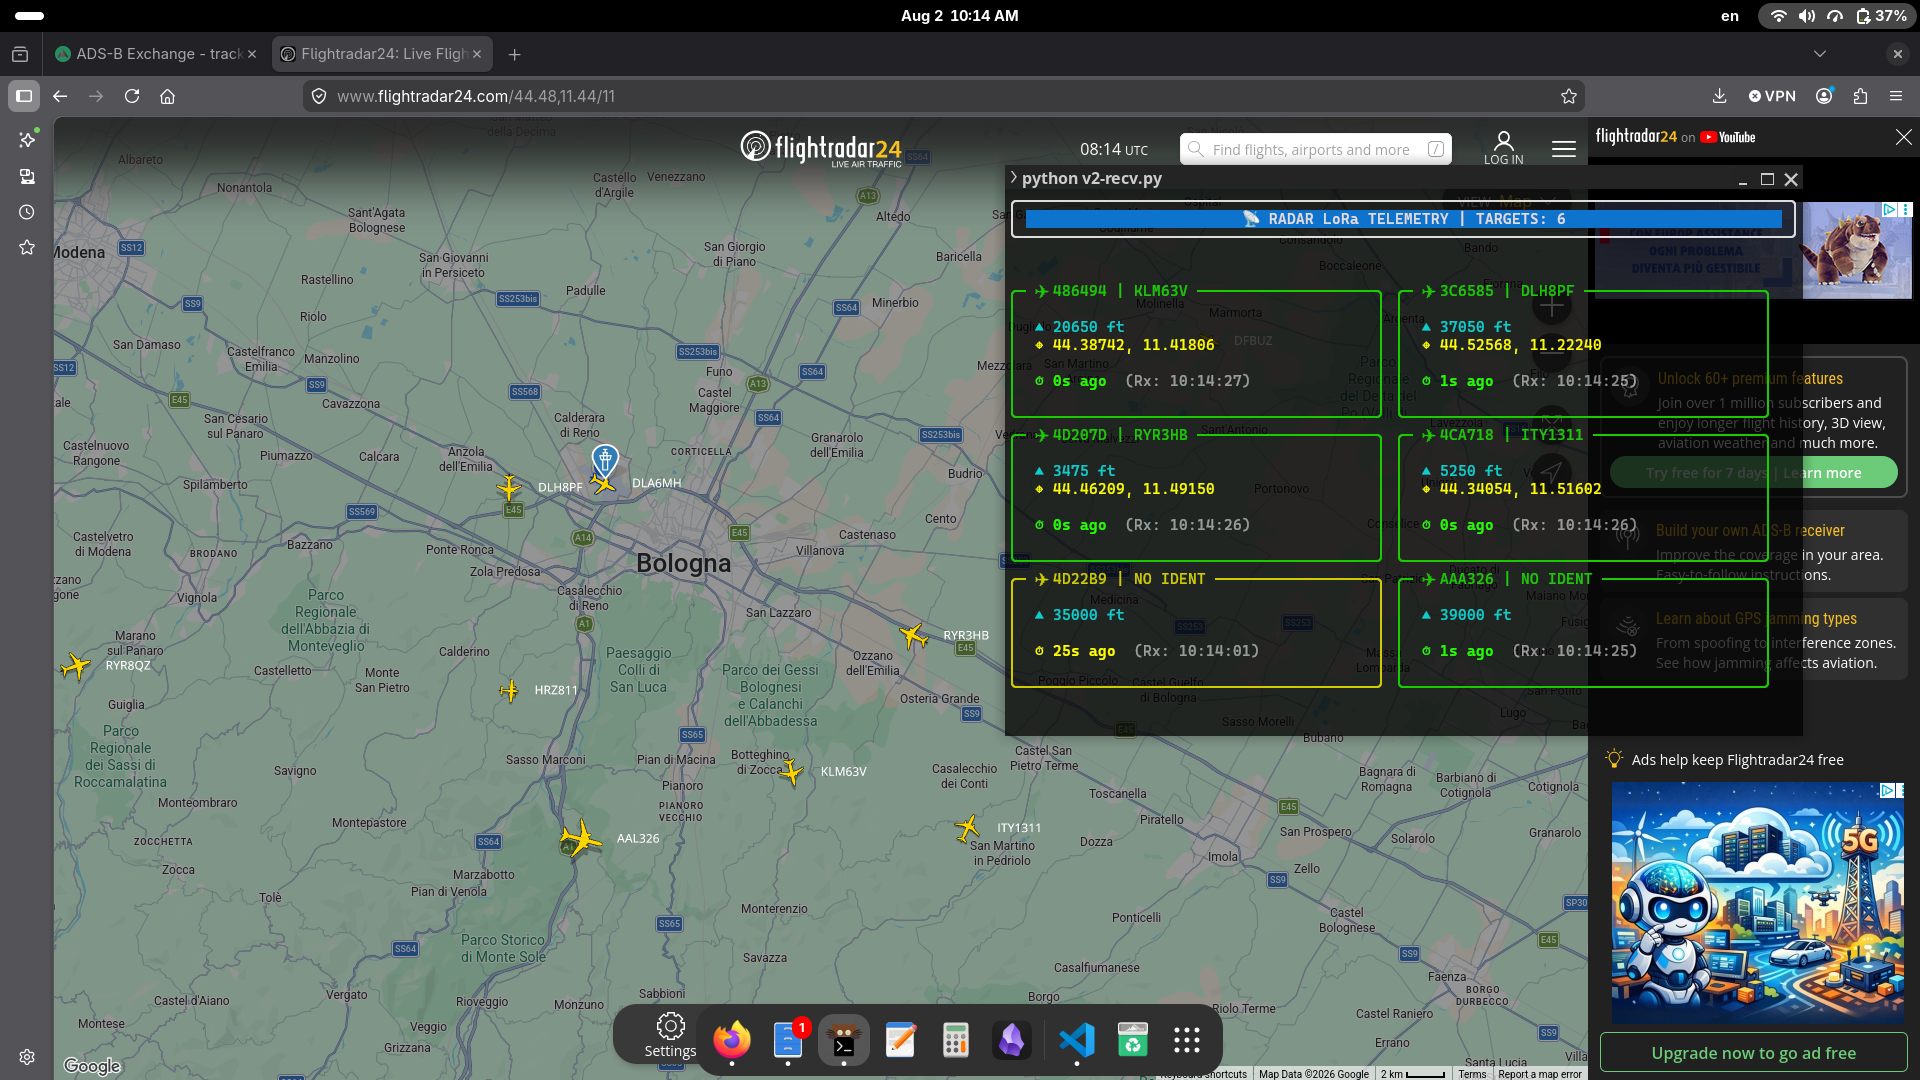
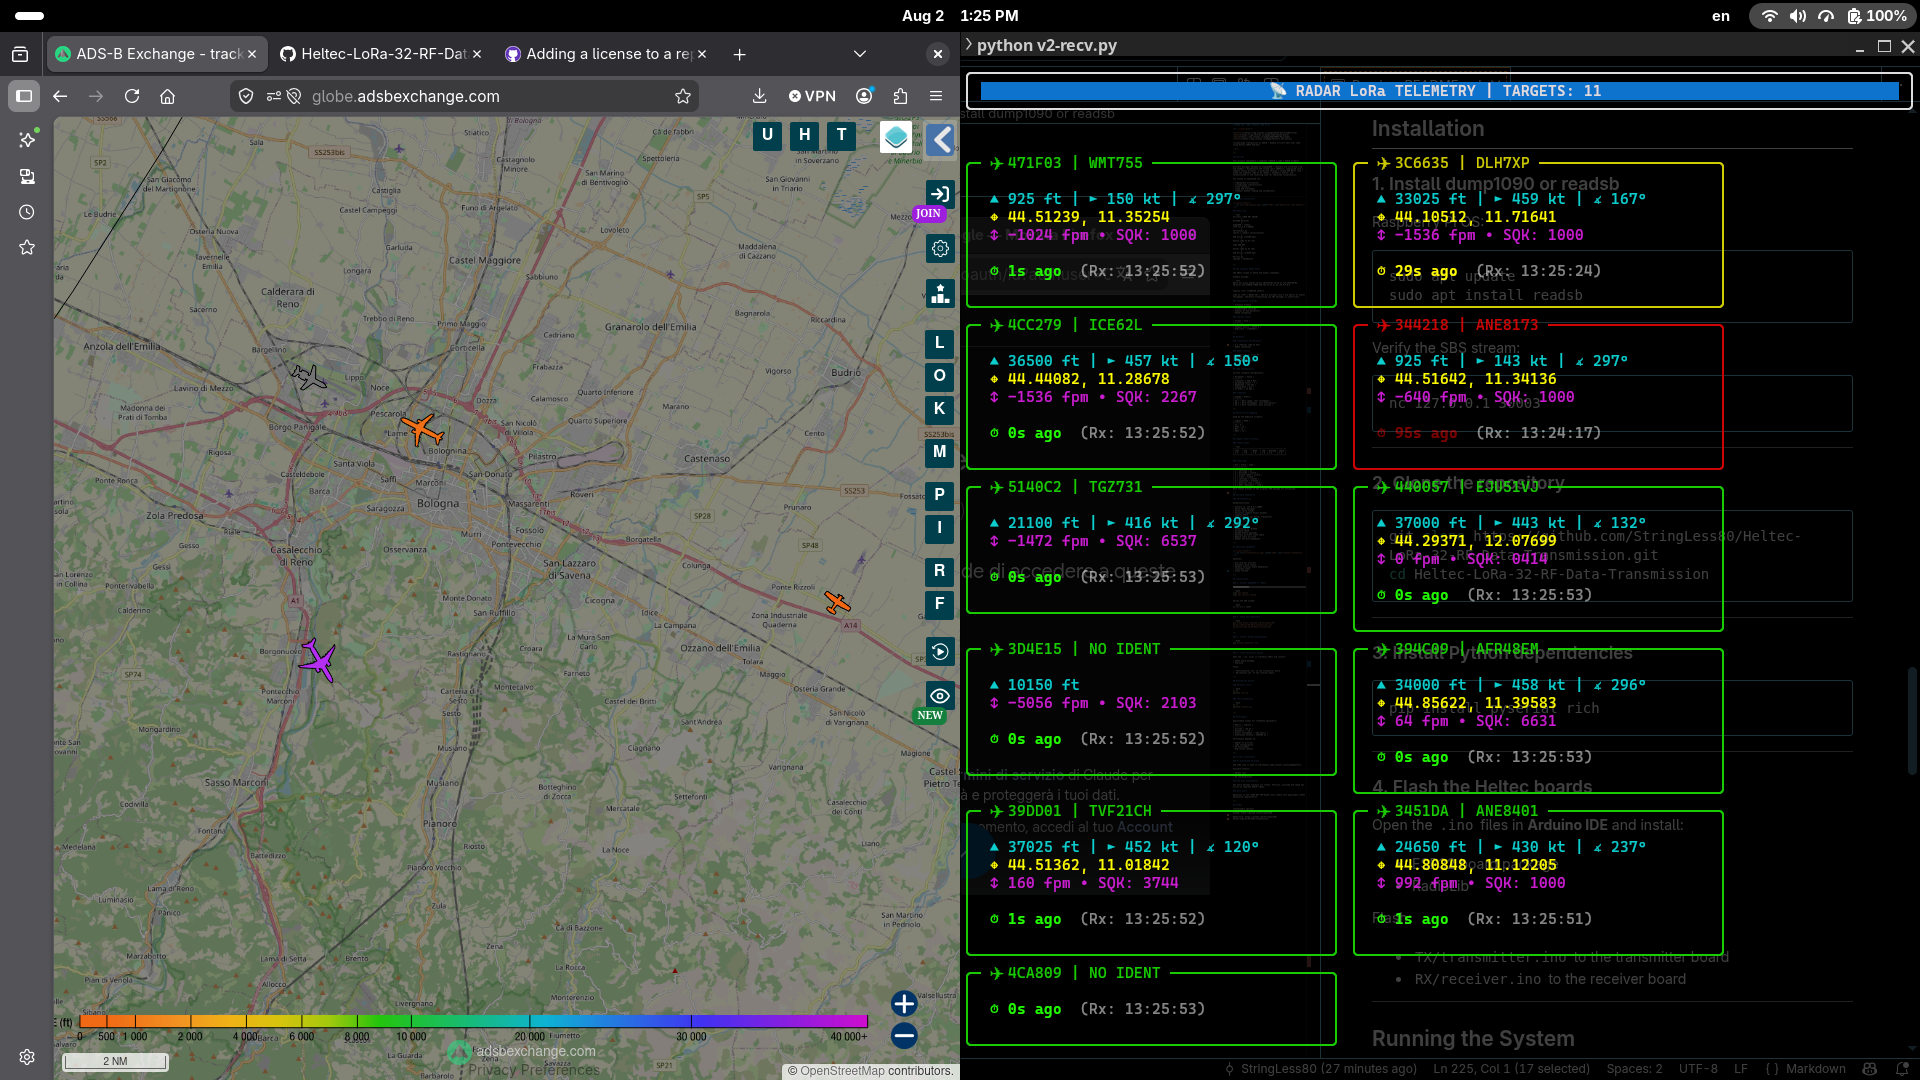
updates

diff --git a/V2/TX/v2-transmit.py b/V2/TX/v2-transmit.py
@@ -61,7 +61,7 @@ def select_fields():
         print("Nessun campo selezionato. Chiusura.")
         sys.exit(1)
 
-    # FIX CRITICO: Ordina sempre i campi per BIT crescente (dal bit 0 al 15)
+    # Ordina sempre i campi per BIT crescente (dal bit 0 al 15)
     # Il ricevitore legge i byte in questo identico ordine. Se non sono ordinati, i byte si mescolano.
     fields.sort(key=lambda x: x[3])
 
@@ -92,10 +92,8 @@ def encode_packet(cached_data, selected_fields):
             elif code == "CAL":
                 field = value.encode()[:8].ljust(8, b"\x00")
             elif code == "ALT":
-                # FIX: Mantiene in piedi (ft) come in aviazione
                 field = struct.pack("<H", max(0, min(65535, int(float(value)))))
             elif code == "VEL":
-                # FIX: Mantiene in nodi (kt)
                 field = struct.pack("<H", max(0, min(65535, int(float(value)))))
             elif code == "DIR":
                 heading = int(float(value)) % 360
@@ -107,7 +105,6 @@ def encode_packet(cached_data, selected_fields):
             elif code == "VER":
                 field = struct.pack("<h", max(-32768, min(32767, int(float(value)))))
             elif code == "SQU":
-                # FIX: Lo squawk è un numero Ottale (Base 8), non decimale!
                 field = struct.pack("<H", int(value, 8))
             elif code == "GRO":
                 ground = 1 if value in ("1", "-1", "true", "True") else 0
@@ -197,7 +194,6 @@ def main():
                 if icao not in aircraft_db:
                     aircraft_db[icao] = {"last_tx": 0, "last_seen": now, "data": {}}
                 
-                # FIX: Aggiorniamo l'orario di ultima ricezione correttamete qui
                 aircraft_db[icao]["last_seen"] = now
 
                 for idx in range(len(data)):

diff --git a/README.md b/README.md
@@ -101,8 +101,6 @@ LoRa at **SF7 / BW125 kHz / CR4:5** provides only a few kbit/s of useful through
 ### Transmitter and Receiver
 
 - 2 × **Heltec LoRa 32 V3**
-- ESP32‑S3
-- SX1262 LoRa transceiver
 - USB‑C connection
 
 ### ADS‑B Station
@@ -110,7 +108,7 @@ LoRa at **SF7 / BW125 kHz / CR4:5** provides only a few kbit/s of useful through
 - Raspberry Pi or Linux PC
 - RTL‑SDR dongle
 - 1090 MHz antenna
-- dump1090-fa or readsb
+- dump1090 or readsb
 
 ---
 
@@ -177,25 +175,6 @@ Used by the RadioLib firmware:
 Only fields present in the original SBS message are serialized.
 
 ---
-
-## Repository Structure
-
-```text
-.
-├── TX/
-│   ├── transmit.py
-│   └── transmitter.ino
-├── RX/
-│   ├── recv.py
-│   └── receiver.ino
-├── screenshots/
-│   ├── dashboard.png
-│   └── diagram.png
-└── README.md
-```
-
----
-
 ## Software Components
 
 ### TX/transmit.py
@@ -234,29 +213,13 @@ Features:
 - Automatic grid layout
 - Dynamic terminal width adaptation
 - Last‑seen timer
-- Altitude, speed, track, latitude and longitude
-- Clean refresh without scrolling
+- Clean refresh
 
 ---
 
 ## Installation
 
 ### 1. Install dump1090 or readsb
-
-Raspberry Pi OS:
-
-```bash
-sudo apt update
-sudo apt install readsb
-```
-
-Verify the SBS stream:
-
-```bash
-nc 127.0.0.1 30003
-```
-
----
 
 ### 2. Clone the repository
 
@@ -355,16 +318,4 @@ Operation in the **868 MHz ISM band** must comply with applicable **ETSI duty‑
 
 GitHub: https://github.com/StringLess80
 
-<<<<<<< HEAD
 Repository: https://github.com/StringLess80/Heltec-LoRa-32-RF-Data-Transmission
-
----
-
-<div align="center">
-
-**If you find this project interesting, consider leaving a ⭐ on GitHub**
-
-</div>
-=======
-Repository: https://github.com/StringLess80/Heltec-LoRa-32-RF-Data-Transmission
->>>>>>> a7e7920 (Update README.md)
